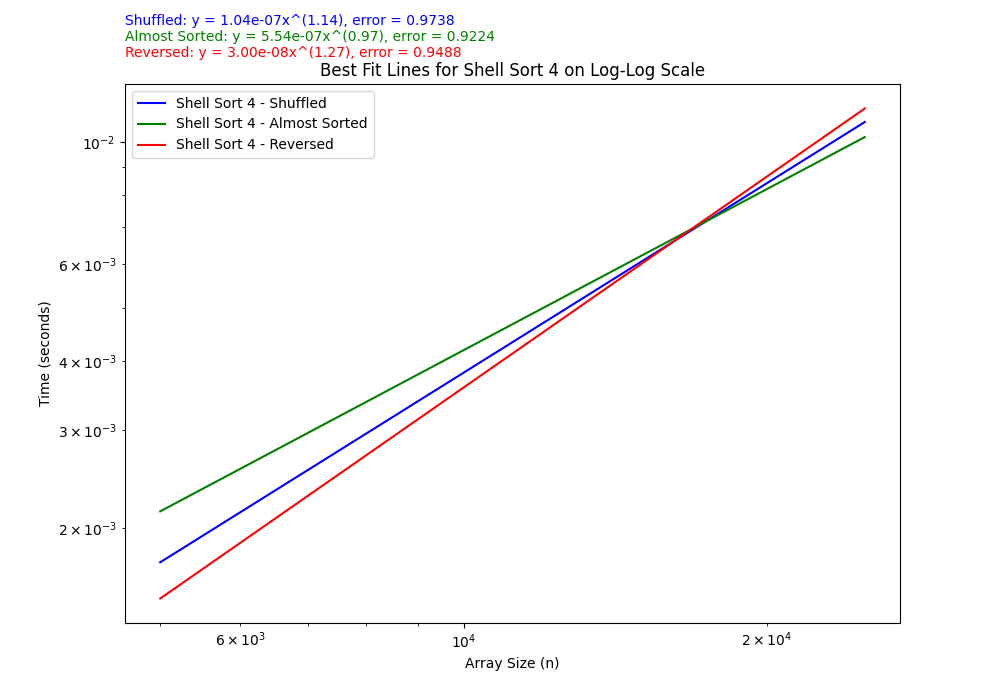
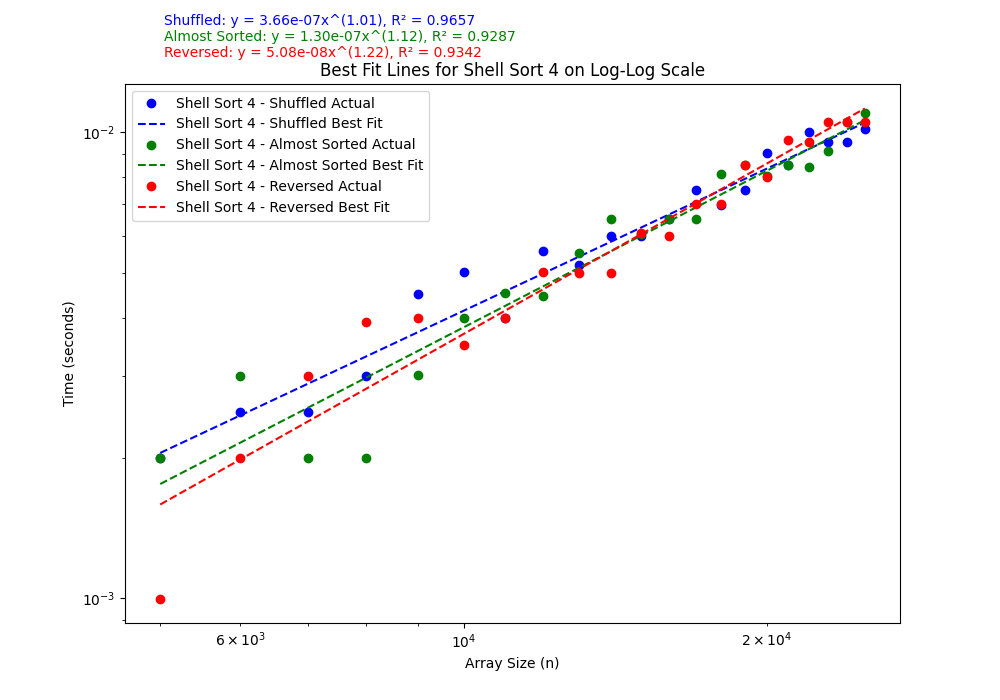
plots refined

diff --git a/main.py b/main.py
@@ -31,23 +31,27 @@ def plot_and_save_best_fit_lines(testN, timings, algorithm_name):
         best_fit_y_log = slope * x_log + intercept  # Logarithm of the predicted values
         best_fit_y = np.exp(best_fit_y_log)  # Anti-log to get back to the original scale
 
+        # Plot the actual data points
+        plt.loglog(testN, timings[:, i], 'o', color=colors[i], label=f"{algorithm_name} - {label} Actual")
+
+        # Plot the best fit line as a dashed line
         plt.loglog(
-            testN, best_fit_y, color=colors[i], label=f"{algorithm_name} - {label}"
+            testN, best_fit_y, '--', color=colors[i], label=f"{algorithm_name} - {label} Best Fit"
         )
 
-        # Calculate R^2 and MSE
+        # Calculate R^2
         r2 = r2_score(y_log, best_fit_y_log)
 
         # Create equation and metrics string
-        metrics_str = f"{label}: y = {np.exp(intercept):.2e}x^({slope:.2f}), error = {r2:.4f}"
+        metrics_str = f"{label}: y = {np.exp(intercept):.2e}x^({slope:.2f}), R² = {r2:.4f}"
 
         # Place text on the plot
         plt.text(
-            0,
+            0.05,  # Adjust horizontal position to be a bit away from the y-axis
             y_position,
             metrics_str,
             transform=plt.gca().transAxes,
-            color=colors[i],
+            color=colors[i]
         )
         y_position -= 0.03  # Adjust y position for the next line of text, making room for additional metrics
 
@@ -328,15 +332,15 @@ def main():
     plot_and_save_best_fit_lines(testN, hybrid2_timings, "Hybrid Sort 2")
     plot_and_save_best_fit_lines(testN, hybrid3_timings, "Hybrid Sort 3")
     
-    plot_and_save_actual_timings(testN, insertion_timings, "Insertion Sort")
-    plot_and_save_actual_timings(testN, merge_timings, "Merge Sort")
-    plot_and_save_actual_timings(testN, shell1_timings, "Shell Sort 1")
-    plot_and_save_actual_timings(testN, shell2_timings, "Shell Sort 2")
-    plot_and_save_actual_timings(testN, shell3_timings, "Shell Sort 3")
-    plot_and_save_actual_timings(testN, shell4_timings, "Shell Sort 4")
-    plot_and_save_actual_timings(testN, hybrid1_timings, "Hybrid Sort 1")
-    plot_and_save_actual_timings(testN, hybrid2_timings, "Hybrid Sort 2")
-    plot_and_save_actual_timings(testN, hybrid3_timings, "Hybrid Sort 3")
+    # plot_and_save_actual_timings(testN, insertion_timings, "Insertion Sort")
+    # plot_and_save_actual_timings(testN, merge_timings, "Merge Sort")
+    # plot_and_save_actual_timings(testN, shell1_timings, "Shell Sort 1")
+    # plot_and_save_actual_timings(testN, shell2_timings, "Shell Sort 2")
+    # plot_and_save_actual_timings(testN, shell3_timings, "Shell Sort 3")
+    # plot_and_save_actual_timings(testN, shell4_timings, "Shell Sort 4")
+    # plot_and_save_actual_timings(testN, hybrid1_timings, "Hybrid Sort 1")
+    # plot_and_save_actual_timings(testN, hybrid2_timings, "Hybrid Sort 2")
+    # plot_and_save_actual_timings(testN, hybrid3_timings, "Hybrid Sort 3")
     
 
 
